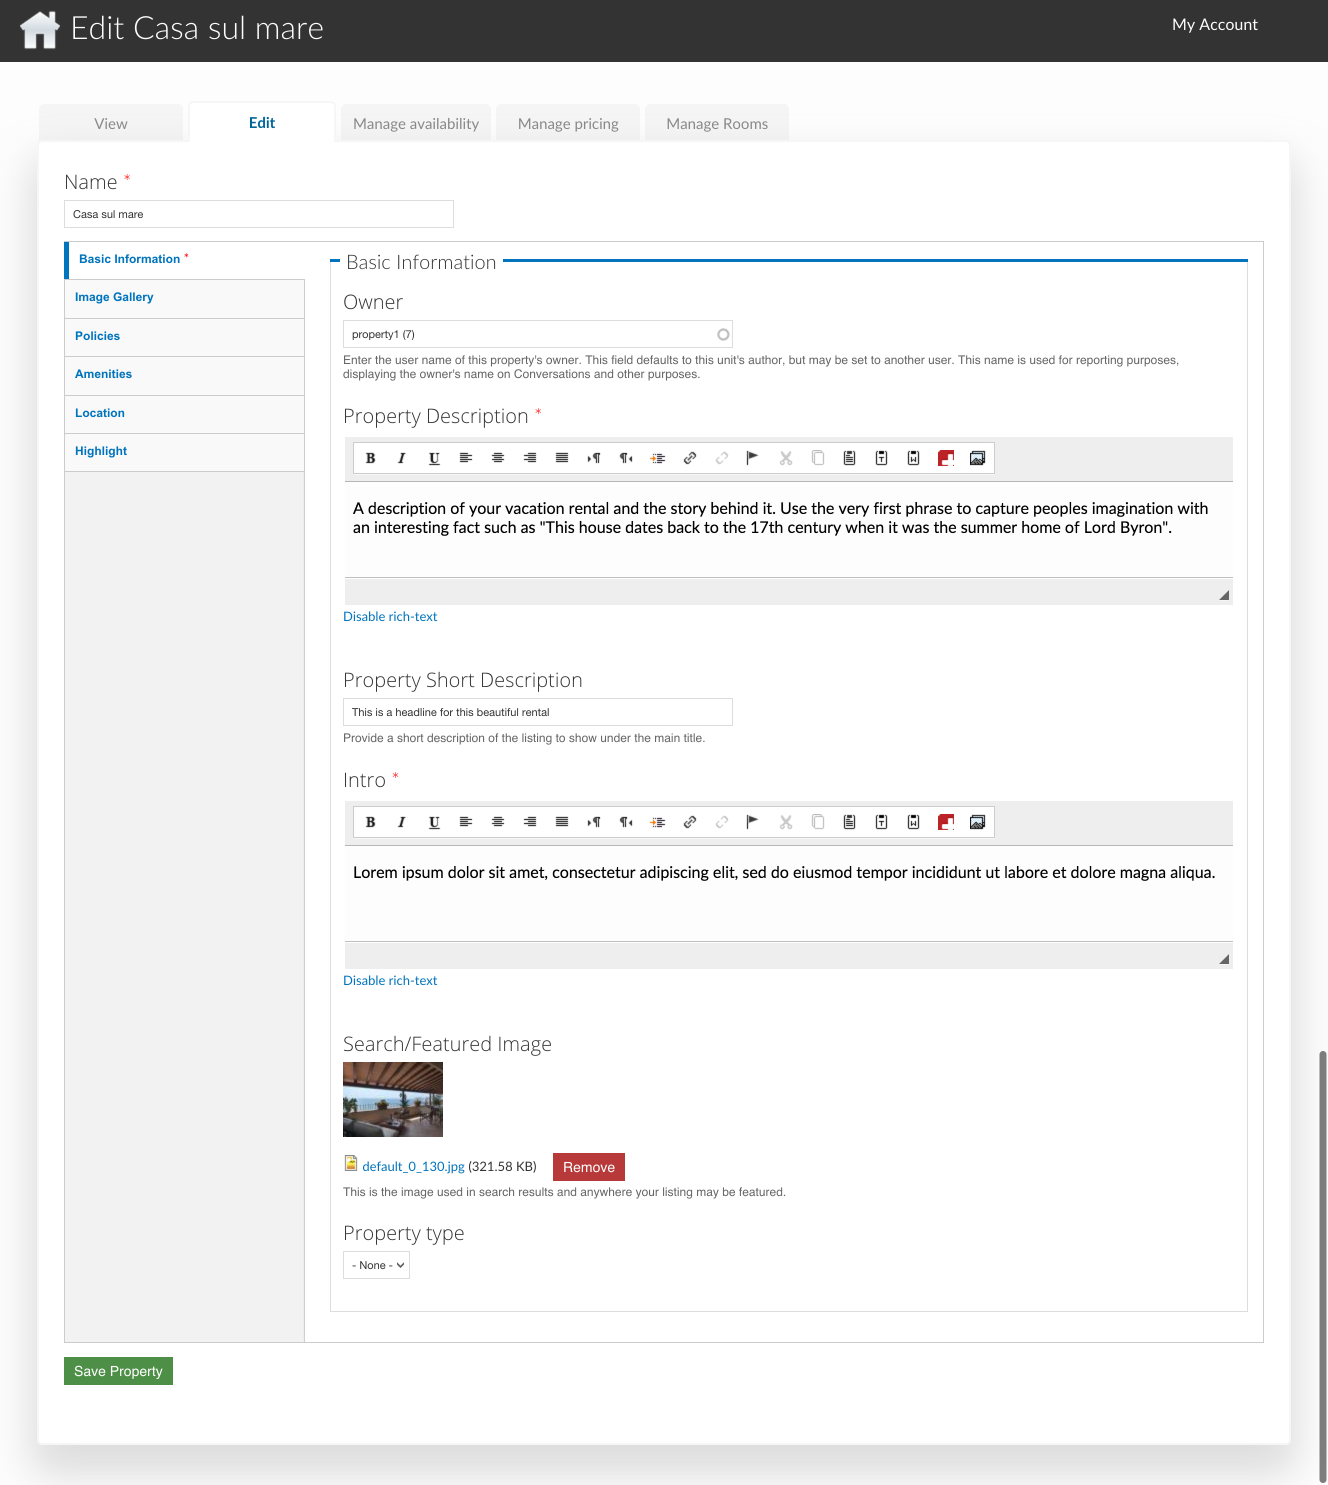
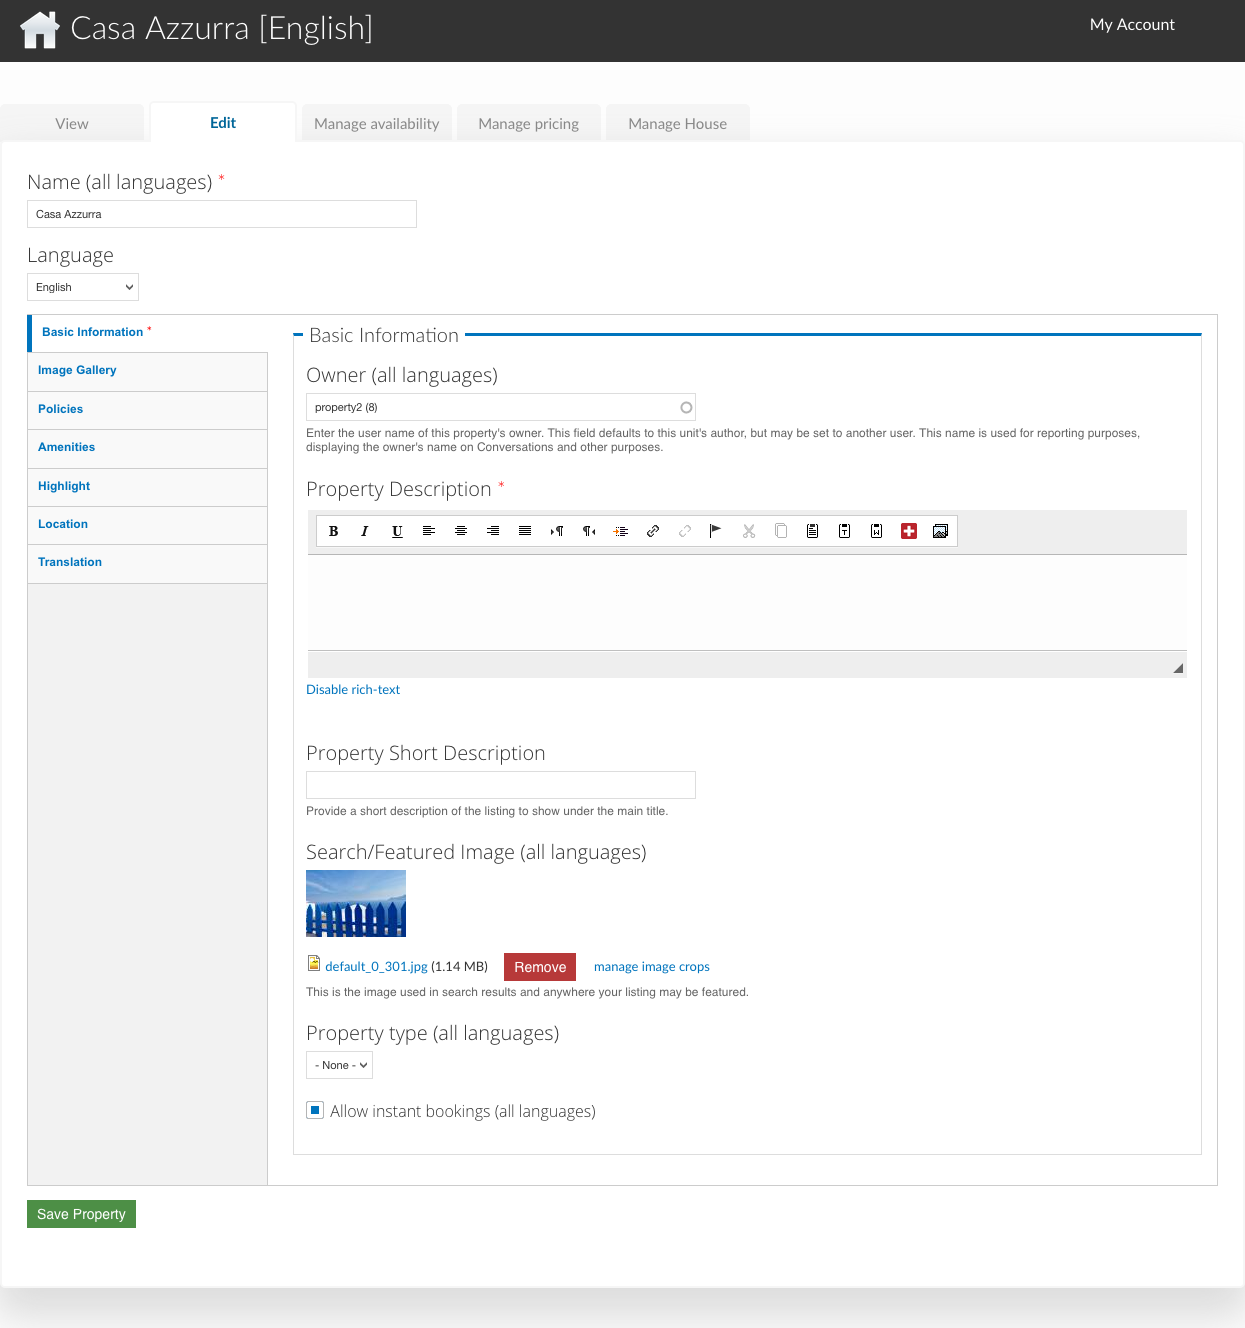
Update screenshot with intro field gone, and update properties docs

diff --git a/roomify_accommodations/properties/properties.rst b/roomify_accommodations/properties/properties.rst
@@ -126,6 +126,12 @@ Basic Information
 *Search/Featured Image*
    This image is used in search results, and anywhere your property is featured on the site.  It will *not* appear in the image gallery.  After uploading an image, click on 'manage image crops' (next to the 'Remove' button), and select a crop area for each image style.
 
+*Property type*
+    Some Roomify for Accommodations site may have property categories, if so, you may select the property type that best describes your property.
+
+*Allow instant bookings*
+    If the site on which your property is listed allows instant bookings, this switch will allow you to turn off instant bookings for your individual property, and only take bookings via Enquiries.  This setting will be overridden by the 'Allow instant bookings' setting on the House or Room, and will have no effect at all if instant bookings have been disabled site-wide.
+
 Image Gallery
 ~~~~~~~~~~~~~~~
 
